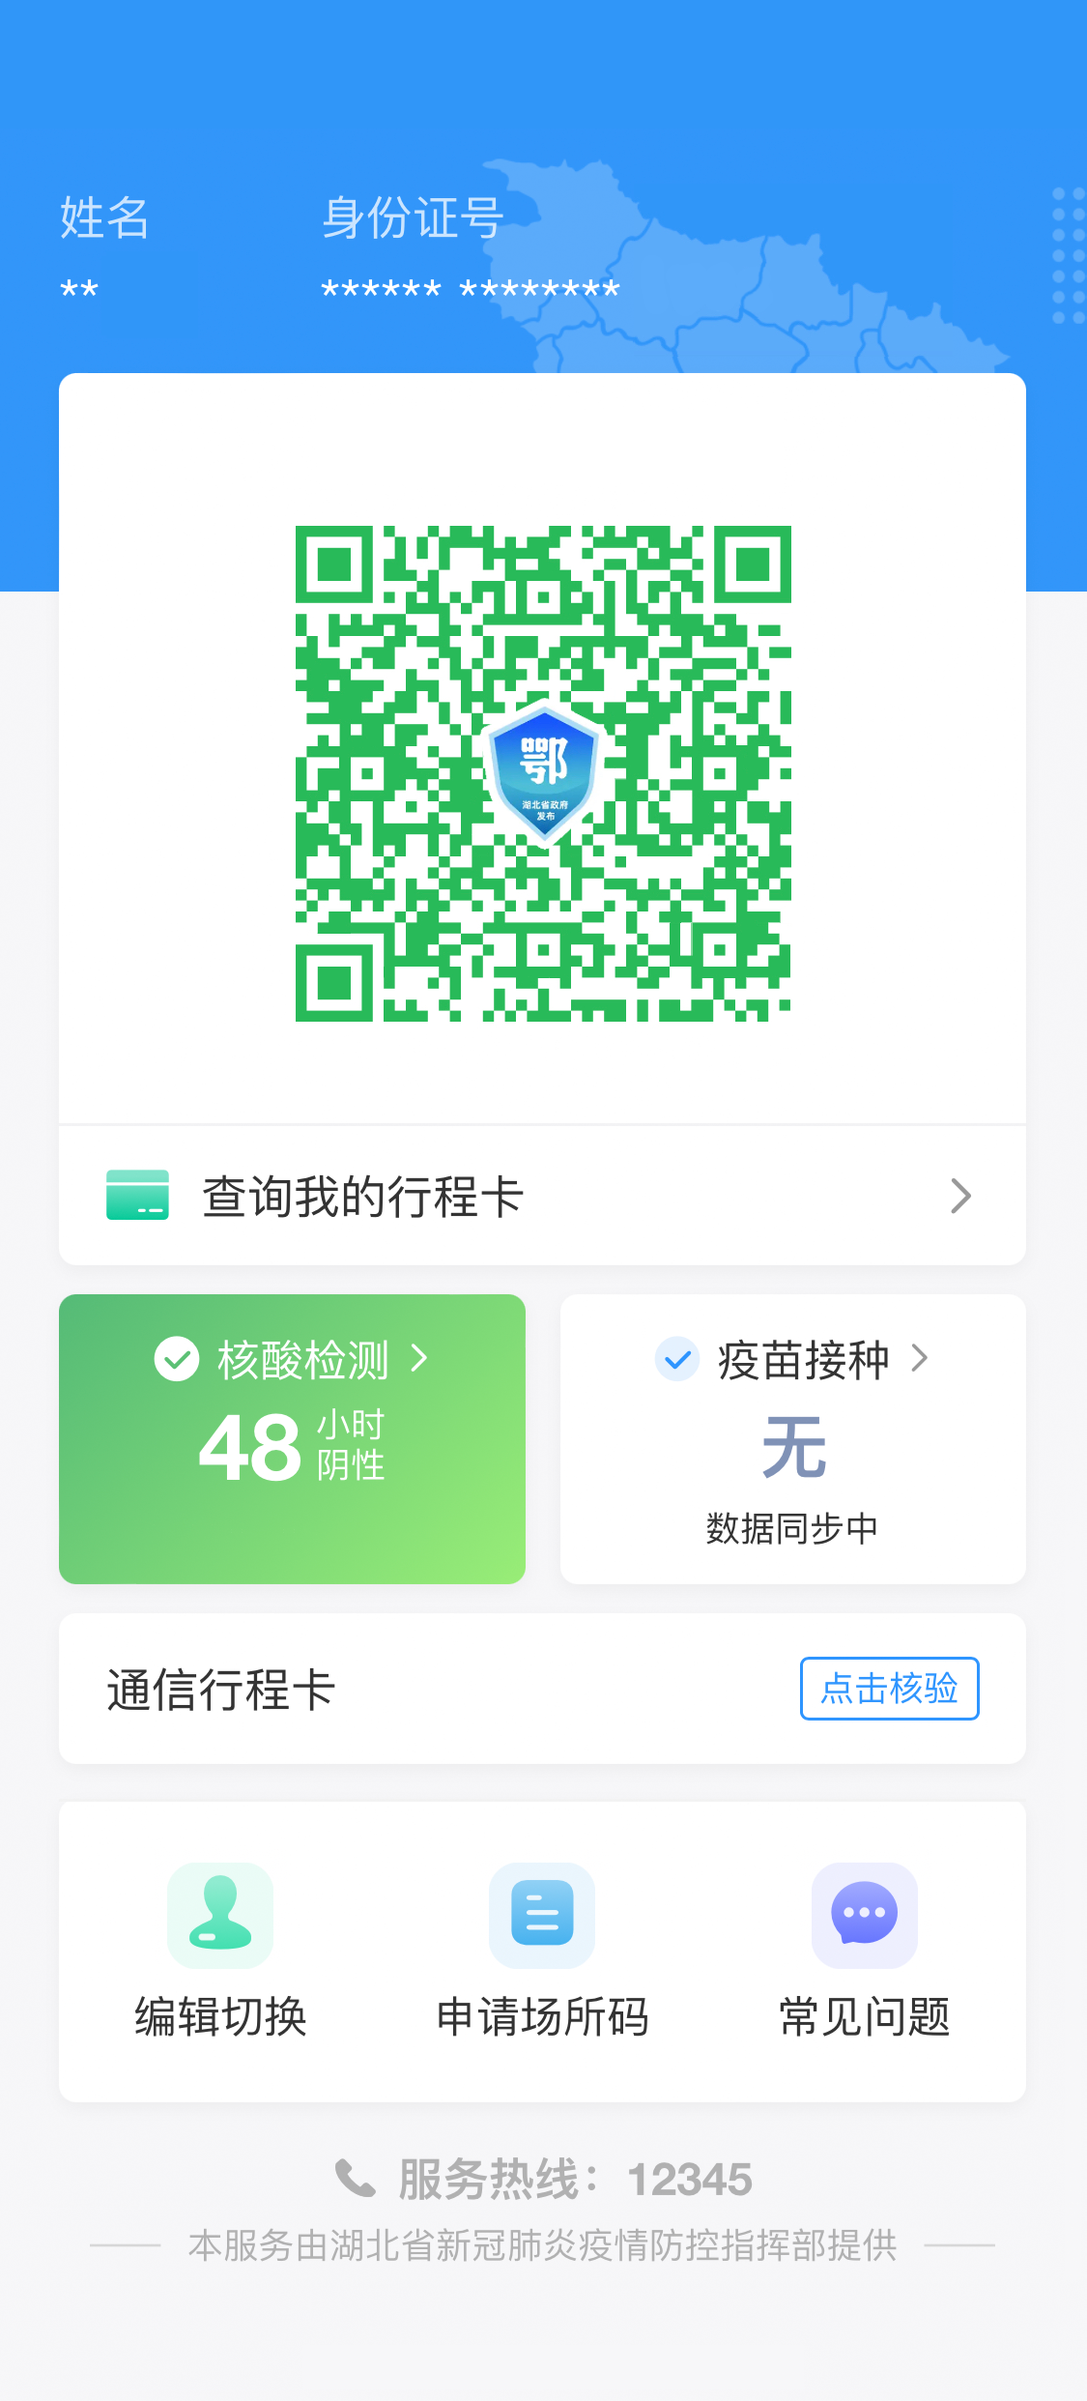
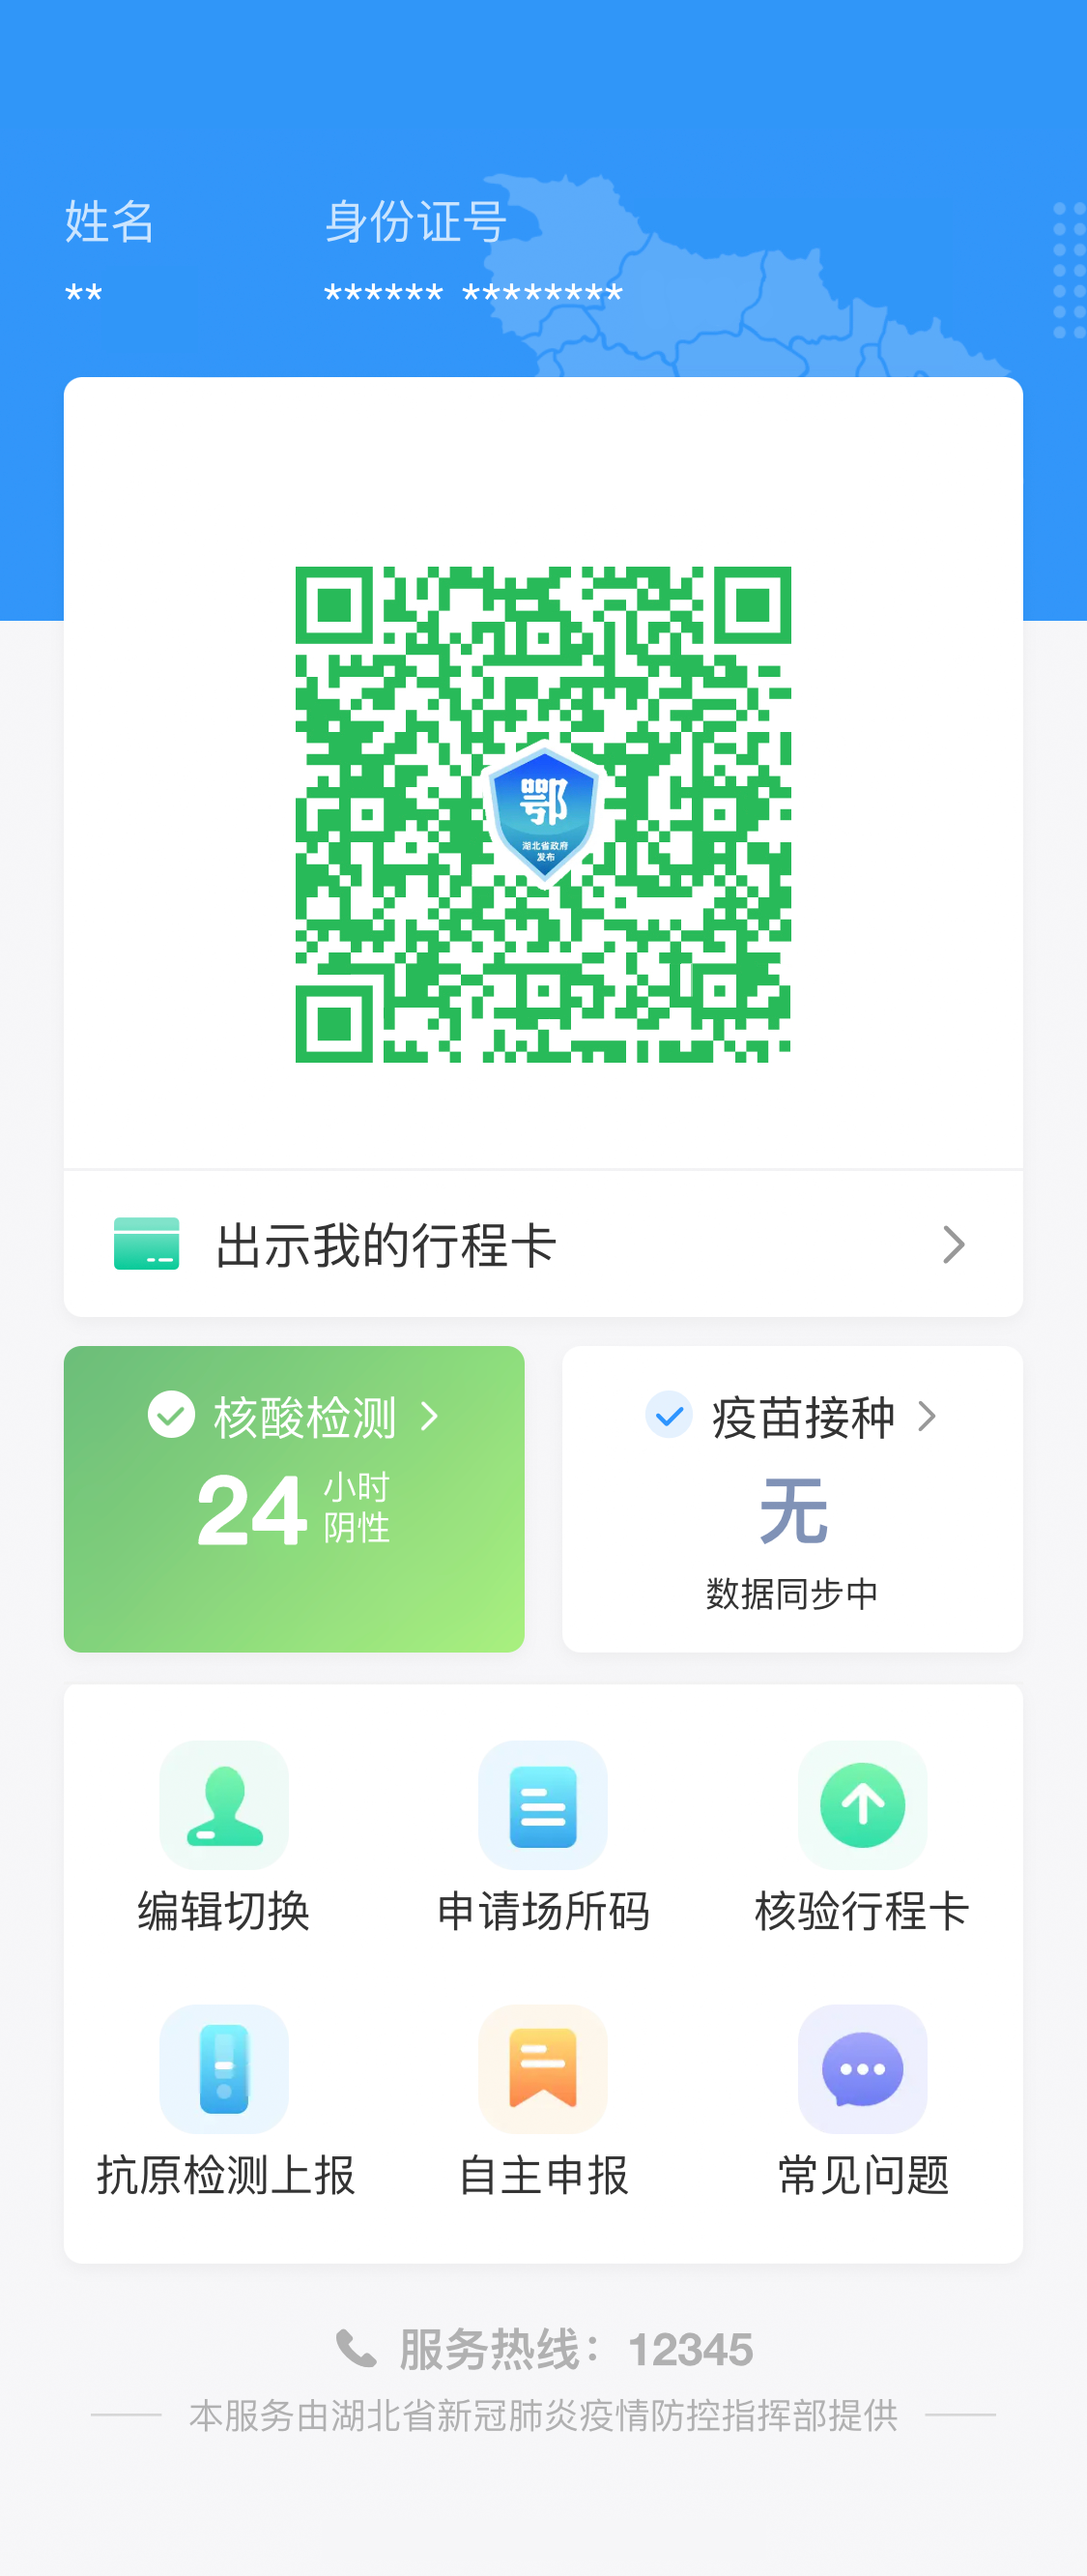
Add files via upload

diff --git a/index.html b/index.html
@@ -53,34 +53,34 @@
         }
         .name{
             position: absolute;
-            top: 10.8%;
-            left: 9.4%;
+            top: 10.3%;
+            left: 8.2%;
             font-size: 5.3vw;
             color: #fff;
         }
         .idnum{
             position: absolute;
-            top: 10.8%;
+            top: 10.5%;
             left: 59.1%;
             font-size: 5vw;
             color: #fff;
         }
         .date{
             position: absolute;
-            top: 17.1%;
+            top: 16.5%;
             left: 0%;
             width: 100%;
             font-size: 0vw;
             text-align: center;
         }
         #before-sec{
-            font-size: 5.5vw;
+            font-size: 6vw;
             color: #000;
             font-family: Arial;
             user-select: none;
         }
         #sec{
-            font-size: 6vw;
+            font-size: 6.6vw;
             color: #0098ff;
             font-family: Arial;
             font-weight: 700;
@@ -88,11 +88,13 @@
         }
         #test{
             position: absolute;
-            top: 62.6%;
+            top: 61.1%;
             left: 6%;
             width: 42.2%;
             color: #fff;
-            font-size: 3vw;
+            font-family: Arial;
+            font-weight: 300;
+            font-size: 3.2vw;
             text-align: center;
             user-select: none;
         }
